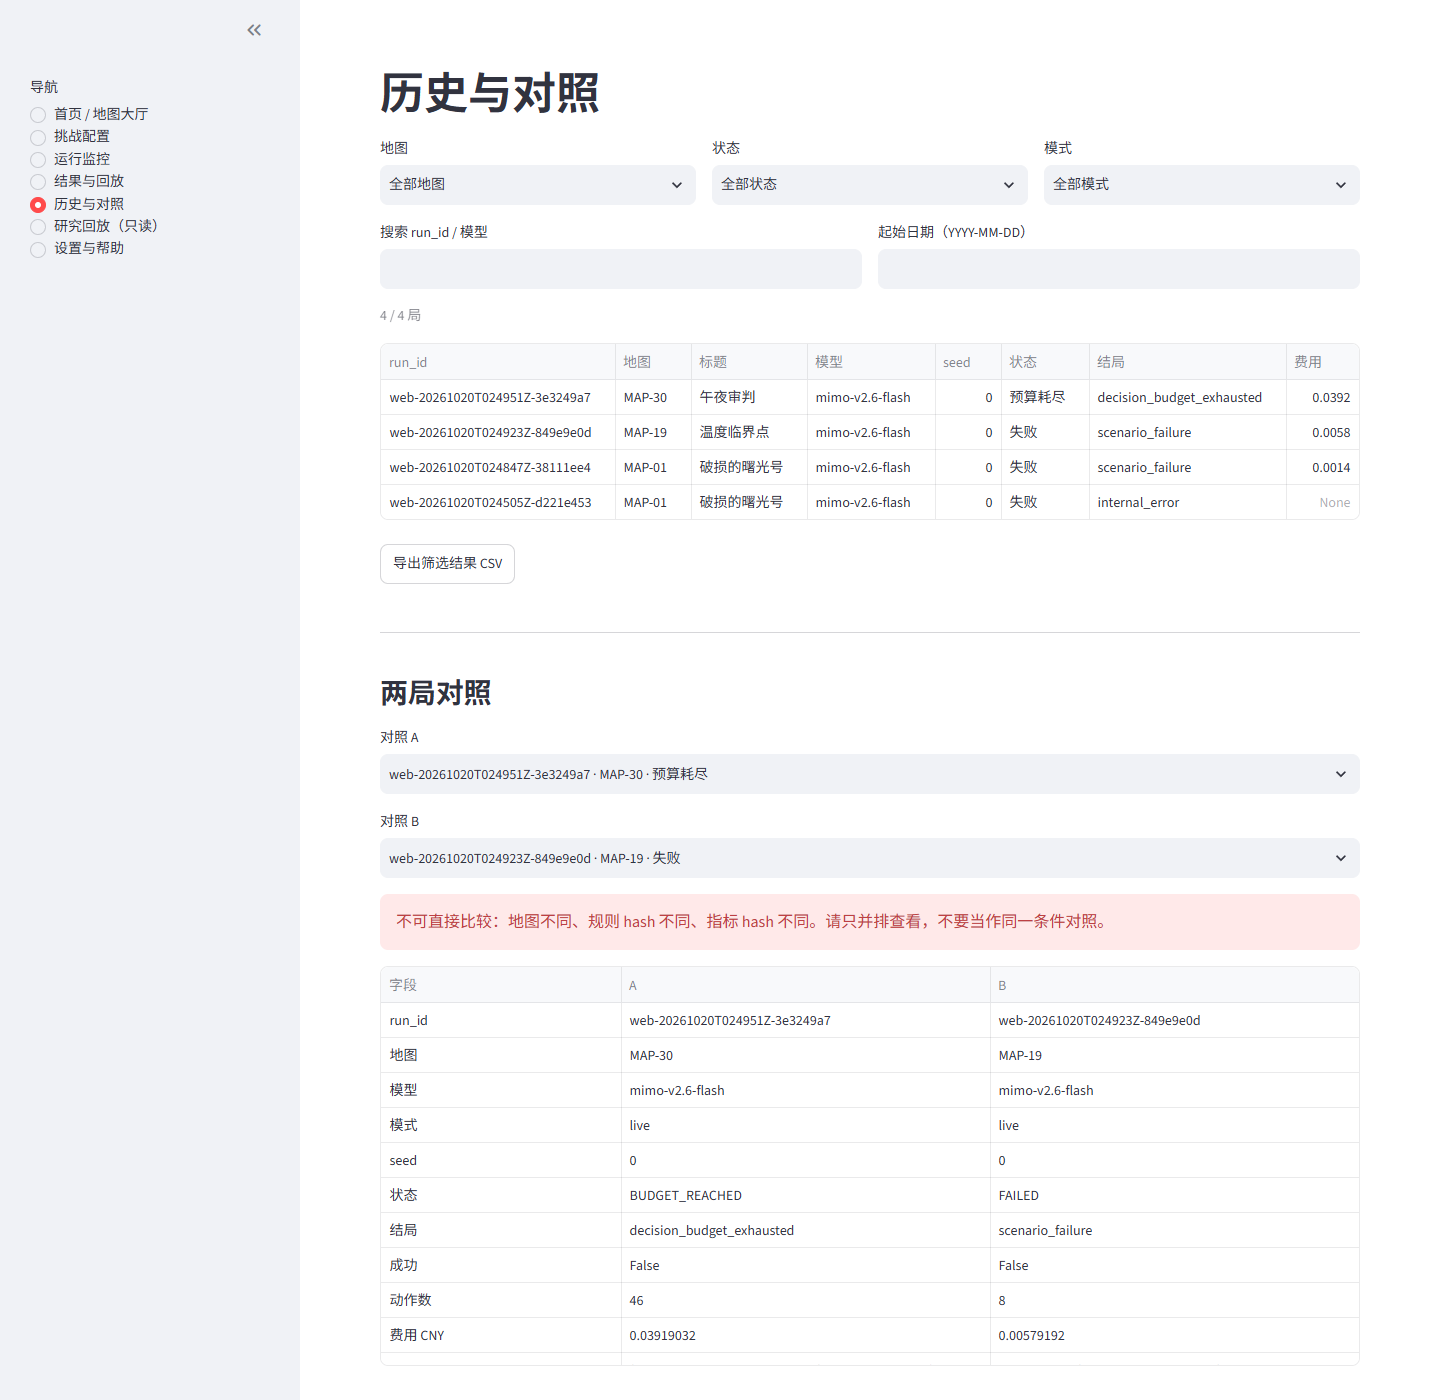
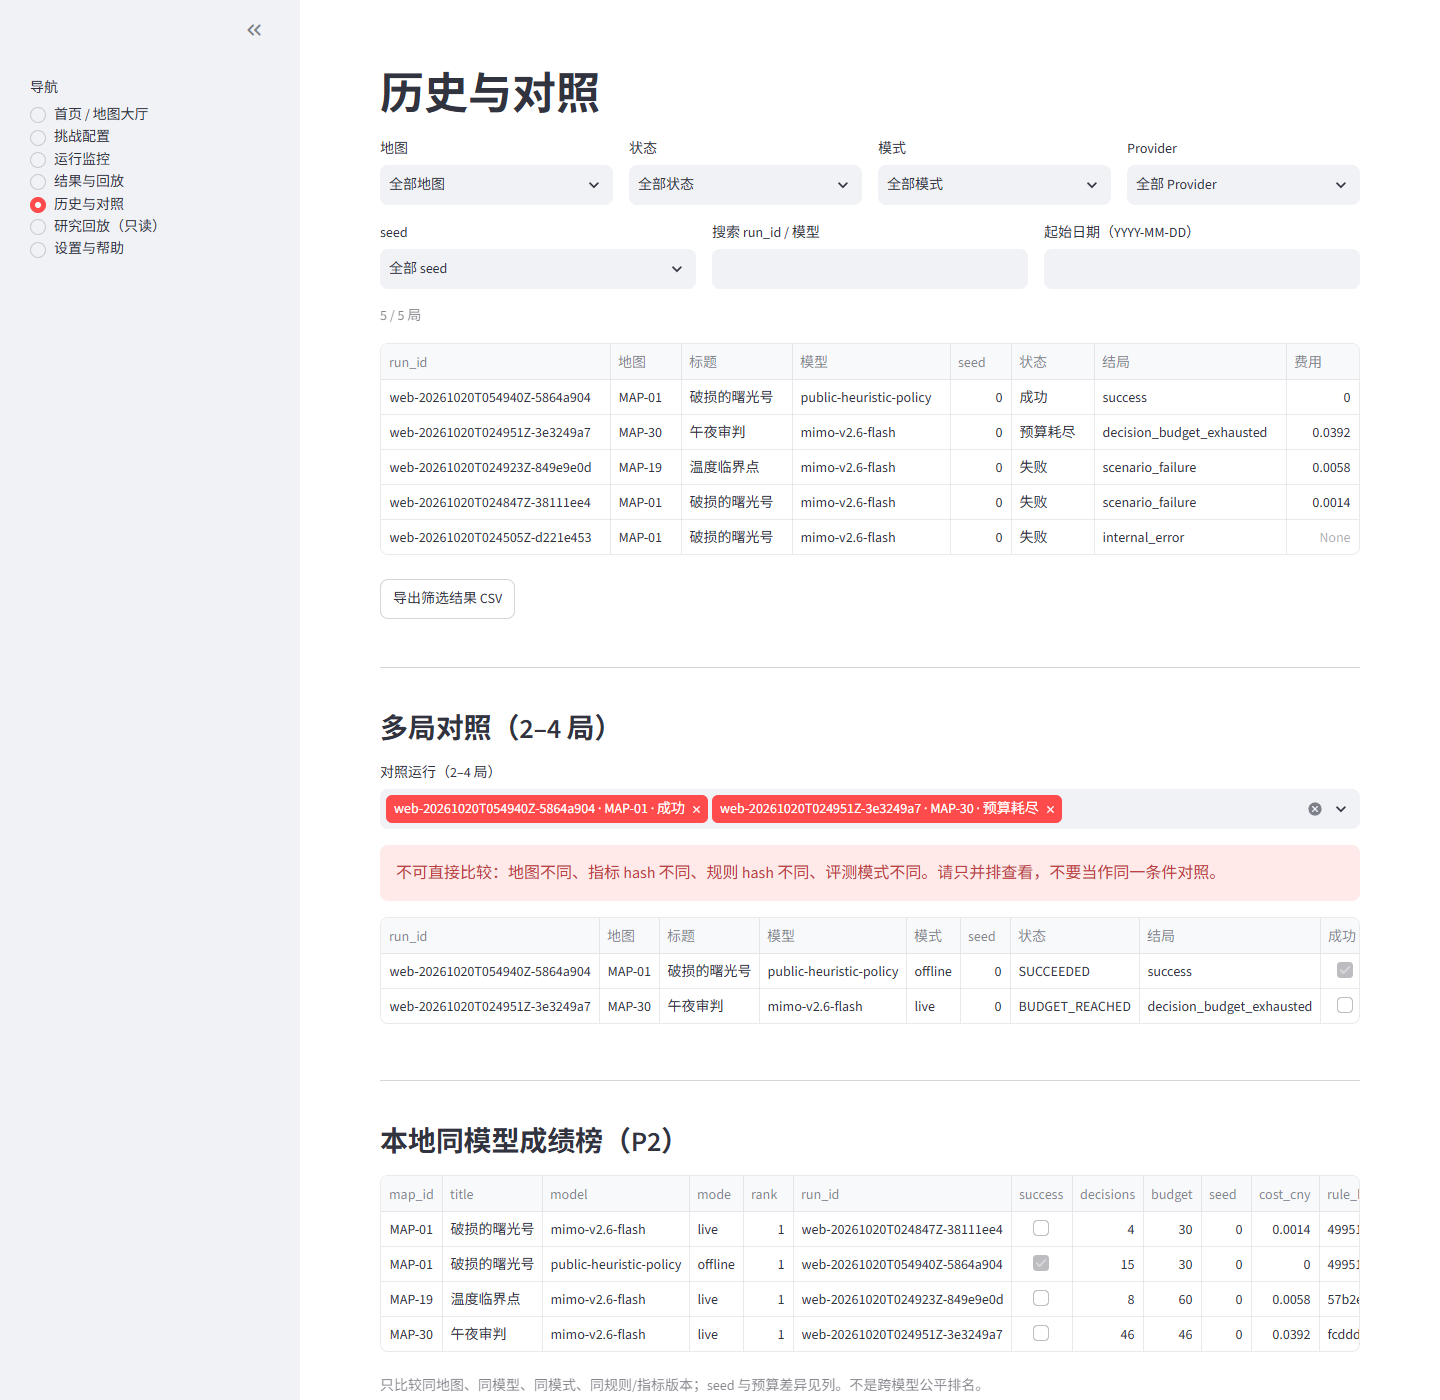
fix(v11): persist streamlit service singleton and deep-link navigation

diff --git a/src/agent_arena/ui/app.py b/src/agent_arena/ui/app.py
@@ -29,6 +29,8 @@ from agent_arena.ui.present import (
     summarize_trace,
     trace_overview,
 )
+from agent_arena.ui.runtime import get_service as _get_shared_service
+from agent_arena.ui.runtime import reset_service as _reset_shared_service
 from agent_arena.v10.baselines.suite import decision_budget
 from agent_arena.web import catalog as web_catalog
 from agent_arena.web.budget import BudgetLimits
@@ -105,8 +107,6 @@ VIEWS = [
 LEGACY_VIEWS = {"单局回放", "矩阵总览", "错误热点", "条件对照"}
 RESEARCH_VIEWS = ["单局回放", "矩阵总览", "错误热点", "条件对照"]
 
-_SERVICE: RunService | None = None
-
 
 def _load_streamlit() -> Any:
     try:
@@ -121,17 +121,11 @@ def _load_streamlit() -> Any:
 
 
 def get_service() -> RunService:
-    global _SERVICE
-    if _SERVICE is None:
-        _SERVICE = RunService(WEB_RUNS_DIR)
-    return _SERVICE
+    return _get_shared_service(WEB_RUNS_DIR)
 
 
 def reset_service() -> None:
-    global _SERVICE
-    if _SERVICE is not None:
-        _SERVICE.shutdown()
-    _SERVICE = None
+    _reset_shared_service()
 
 
 # --------------------------------------------------------------------- legacy
@@ -400,8 +394,15 @@ def _query_value(st: Any, key: str) -> str:
 
 
 def _apply_deep_link(st: Any) -> None:
-    """支持 ``?view=结果与回放&run=<run_id>`` 深链；不影响状态事实来源。"""
+    """支持 ``?view=结果与回放&run=<run_id>`` 深链；只在首次加载生效。
 
+    ``_nav`` 会在用户导航后写回 ``view`` 参数；如果每次 rerun 都重新应用，就会把
+    用户刚点的侧边栏选项覆盖掉。
+    """
+
+    state = getattr(st, "session_state", None)
+    if state is not None and state.get("_deep_link_applied"):
+        return
     view = _query_value(st, "view")
     run_id = _query_value(st, "run")
     map_id = _query_value(st, "map")
@@ -411,15 +412,15 @@ def _apply_deep_link(st: Any) -> None:
         st.session_state["active_run"] = run_id
     if map_id and any(item.map_id == map_id for item in web_catalog.cards()):
         st.session_state["selected_map"] = map_id
+    if state is not None:
+        state["_deep_link_applied"] = True
 
 
 def _nav(st: Any) -> str:
     try:
-        selected = str(st.sidebar.radio("导航", VIEWS, key="nav"))
+        return str(st.sidebar.radio("导航", VIEWS, key="nav"))
     except TypeError:  # 兼容旧测试的极简 stub
-        selected = str(st.sidebar.radio("导航", VIEWS))
-    _set_query_param(st, "view", selected)
-    return selected
+        return str(st.sidebar.radio("导航", VIEWS))
 
 
 def _world_options() -> dict[str, str]:
@@ -1123,7 +1124,7 @@ def _history_view(st: Any, service_getter: Any = get_service) -> None:
             "seed": row.environment_seed,
             "状态": state_label(row.state),
             "结局": row.outcome or "—",
-            "费用": row.cost_settled_cny,
+            "费用": "—" if row.cost_settled_cny is None else row.cost_settled_cny,
         }
         for row in filtered
     ]

diff --git a/scripts/capture_v11_screenshots.py b/scripts/capture_v11_screenshots.py
@@ -11,6 +11,7 @@
 from __future__ import annotations
 
 import argparse
+import os
 from pathlib import Path
 
 from playwright.sync_api import Page, sync_playwright
@@ -32,7 +33,7 @@ def _wait_text(page: Page, text: str, timeout: int = 20_000) -> None:
 
 
 def _click_nav(page: Page, label: str) -> None:
-    page.get_by_text(label, exact=True).first.click()
+    page.locator('[data-testid="stSidebar"] label').filter(has_text=label).first.click()
     page.wait_for_timeout(2_000)
 
 
@@ -43,10 +44,25 @@ def _shot(page: Page, name: str) -> str:
     return str(path.relative_to(ROOT))
 
 
+def _latest_run(runs_dir: Path) -> str:
+    candidates = sorted(
+        (path for path in runs_dir.glob("web-*") if (path / "result.json").is_file()),
+        key=lambda path: path.stat().st_mtime,
+        reverse=True,
+    )
+    return candidates[0].name if candidates else ""
+
+
 def main() -> int:
     parser = argparse.ArgumentParser()
     parser.add_argument("--url", default="http://127.0.0.1:8501")
+    parser.add_argument("--run-id", default="")
+    parser.add_argument("--runs-dir", type=Path, default=None)
     args = parser.parse_args()
+    runs_dir = args.runs_dir or Path(
+        os.environ.get("AGENT_ARENA_WEB_RUNS_DIR", str(ROOT / "runs" / "web"))
+    )
+    run_id = args.run_id or _latest_run(runs_dir)
     shots: list[str] = []
     with sync_playwright() as playwright:
         browser = playwright.chromium.launch(channel="chrome", headless=True)
@@ -61,11 +77,23 @@ def main() -> int:
         page.wait_for_timeout(4_000)
         shots.append(_shot(page, "02-config-rules.png"))
 
-        _click_nav(page, NAV["live"])
+        if run_id:
+            page.goto(
+                f"{args.url}/?view=%E8%BF%90%E8%A1%8C%E7%9B%91%E6%8E%A7&run={run_id}",
+                wait_until="networkidle",
+            )
+        else:
+            _click_nav(page, NAV["live"])
         _wait_text(page, "动作时间线")
         shots.append(_shot(page, "03-run-monitor.png"))
 
-        _click_nav(page, NAV["result"])
+        if run_id:
+            page.goto(
+                f"{args.url}/?view=%E7%BB%93%E6%9E%9C%E4%B8%8E%E5%9B%9E%E6%94%BE&run={run_id}",
+                wait_until="networkidle",
+            )
+        else:
+            _click_nav(page, NAV["result"])
         _wait_text(page, "逐步回放")
         shots.append(_shot(page, "04-result.png"))
 
@@ -82,6 +110,15 @@ def main() -> int:
         _wait_text(mobile, "地图大厅")
         mobile.wait_for_timeout(800)
         shots.append(_shot(mobile, "07-home-mobile.png"))
+
+        dark = browser.new_page(
+            viewport={"width": 1440, "height": 1200},
+            color_scheme="dark",
+        )
+        dark.goto(args.url, wait_until="networkidle")
+        _wait_text(dark, "地图大厅")
+        dark.wait_for_timeout(800)
+        shots.append(_shot(dark, "08-home-dark.png"))
         browser.close()
     for path in shots:
         print(path)

diff --git a/src/agent_arena/ui/runtime.py b/src/agent_arena/ui/runtime.py
@@ -1,0 +1,41 @@
+"""进程级 RunService 单例。
+
+Streamlit 每次 rerun 会重新执行入口脚本，``__main__`` 中的模块级变量会重置；
+把单例放在被 import 的普通模块里，才能跨 rerun/会话复用同一个服务与文件锁。
+"""
+
+from __future__ import annotations
+
+import threading
+from pathlib import Path
+
+from agent_arena.web.service import RunService
+
+_LOCK = threading.Lock()
+_SERVICE: RunService | None = None
+_BASE: Path | None = None
+
+
+def get_service(base: Path) -> RunService:
+    global _SERVICE, _BASE
+    resolved = base.resolve()
+    with _LOCK:
+        if _SERVICE is not None and _BASE == resolved:
+            return _SERVICE
+        if _SERVICE is not None:
+            _SERVICE.shutdown()
+        _SERVICE = RunService(resolved)
+        _BASE = resolved
+        return _SERVICE
+
+
+def reset_service() -> None:
+    global _SERVICE, _BASE
+    with _LOCK:
+        if _SERVICE is not None:
+            _SERVICE.shutdown()
+        _SERVICE = None
+        _BASE = None
+
+
+__all__ = ["get_service", "reset_service"]

diff --git a/scripts/verify_v11_map_pages.py b/scripts/verify_v11_map_pages.py
@@ -95,7 +95,9 @@ def main() -> int:
     failures: list[dict[str, str]] = []
     try:
         if args.start:
-            temporary = tempfile.TemporaryDirectory(prefix="agent-arena-map-pages-")
+            temporary = tempfile.TemporaryDirectory(
+                prefix="agent-arena-map-pages-", ignore_cleanup_errors=True
+            )
             runs_dir = Path(temporary.name) / "runs" / "web"
             process = _start_server(args.port, runs_dir)
             url = f"http://127.0.0.1:{args.port}"
@@ -115,6 +117,8 @@ def main() -> int:
                 process.wait(timeout=10)
             except subprocess.TimeoutExpired:
                 process.kill()
+                process.wait(timeout=10)
+            time.sleep(0.5)
         if temporary is not None:
             temporary.cleanup()
 

diff --git a/scripts/e2e_web.py b/scripts/e2e_web.py
@@ -129,7 +129,9 @@ def main() -> int:
     url = args.url
     try:
         if args.start:
-            temporary = tempfile.TemporaryDirectory(prefix="agent-arena-e2e-")
+            temporary = tempfile.TemporaryDirectory(
+                prefix="agent-arena-e2e-", ignore_cleanup_errors=True
+            )
             runs_dir = Path(temporary.name) / "runs" / "web"
             process = _start_server(args.port, runs_dir)
             url = f"http://127.0.0.1:{args.port}"
@@ -147,6 +149,8 @@ def main() -> int:
                 process.wait(timeout=10)
             except subprocess.TimeoutExpired:
                 process.kill()
+                process.wait(timeout=10)
+            time.sleep(0.5)
         if temporary is not None:
             temporary.cleanup()
 

diff --git a/tests/test_web_ui_smoke.py b/tests/test_web_ui_smoke.py
@@ -325,3 +325,14 @@ def test_pending_nav_is_applied_before_widget() -> None:
     ui_app._apply_pending_nav(stub)
     assert stub.session_state["nav"] == "挑战配置"
     assert "pending_nav" not in stub.session_state
+
+
+def test_deep_link_only_applies_on_first_load() -> None:
+    from agent_arena.ui import app as ui_app
+
+    stub = _Stub()
+    stub.session_state["nav"] = "挑战配置"
+    stub.session_state["_deep_link_applied"] = True
+    stub.query_params = {"view": "结果与回放"}
+    ui_app._apply_deep_link(stub)
+    assert stub.session_state["nav"] == "挑战配置"

diff --git a/docs/v11/progress.md b/docs/v11/progress.md
@@ -30,6 +30,10 @@
 - 新增 `scripts/e2e_web.py`：Playwright + 系统 Chrome 覆盖首页 → 离线运行 → 结果 → 下载 JSON → 深链历史，本地通过。
 - 新增 `scripts/verify_v11_map_pages.py`：30 图配置页浏览器映射 30/30。
 - 新增跨进程单实例锁；Streamlit 锁定到 `uv.lock` 的 `web` extra。
+- 修复 Streamlit 每次 rerun 重置 `__main__` 全局导致新建服务撞锁；单例移到 `ui/runtime.py`。
+- 修复深链每次 rerun 覆盖侧边栏导航；深链只在首次加载应用。
+- E2E 与 30 图映射脚本使用 `ignore_cleanup_errors`，避免 Windows 锁文件阻塞临时目录清理。
+- 新增深色模式截图（`08-home-dark.png`），截图总数 8 张。
 - 新增公开动作级失败归因与 `trace.jsonl`；历史补 Provider/Seed 筛选、2–4 局对照、成绩榜预算列。
 - Windows 干净克隆安装 176.9s（首次）/96.5s（复跑），无 `.env`，自检 7/7；Ubuntu CI `d51f472` success。
 - 演示数据包、启动/桌面快捷方式模板、版本 `0.2.0`。
@@ -44,6 +48,7 @@
 - `65806ef`：跨进程锁、失败归因、筛选/多局对照、Streamlit extra 锁定；
 - `e4fb40c`：shell 启动脚本可执行位；
 - `d51f472`：文件锁 mypy 跨平台修正；
-- 最终报告、验收数据与进度回填：本提交（见 `git log -1`）。
+- `33732ab`：硬化文档、干净安装/Ubuntu CI 证据、演示包与 0.2.0；
+- 本提交：Streamlit 单例/深链导航修复、深色截图、E2E 清理（见 `git log -1`）。
 
 最终 HEAD 与完整历史以 `git log` 为准。

diff --git a/docs/v11/backlog.md b/docs/v11/backlog.md
@@ -7,7 +7,7 @@
 | P2-1 公开状态可视化 | **DONE（基础版）** | 结果页可选公开 Observation 数值字段画折线；数据只来自 agent-visible 事件 | 增加地图主题卡片、资源条、进度图 |
 | P2-2 本地同模型成绩榜 | **DONE** | 同地图/模型/模式/规则指标版本内排序；显示 seed、费用与决策预算 | 按 seed 分组/个人最好成绩分层 |
 | P2-3 快捷启动脚本 | **DONE** | `launch_web.ps1`、`launch_web.sh`、`launch_web.command`、Windows 桌面快捷方式脚本、Linux `.desktop` 模板 | 跨平台安装器 |
-| P2-3 演示截图 | **DONE** | `docs/v11/screenshots/` 七张（含移动端） | 深色模式对照 |
+| P2-3 演示截图 | **DONE** | `docs/v11/screenshots/` 八张（含移动端） | 深色模式对照 |
 | P2-3 演示数据包 | **DONE** | `docs/v11/demo/` + `scripts/install_v11_demo.py`，一键安装 MAP-01 离线 15 步记录 | 扩展到 3 局样本 |
 | P2-3 桌面快捷方式 | **DONE（模板）** | Windows 脚本可直接创建；macOS `.command`；Linux `.desktop` 模板需改路径 | 各平台安装器 |
 

diff --git a/docs/v11/test-report.md b/docs/v11/test-report.md
@@ -117,6 +117,9 @@ uv run --with playwright --with streamlit python scripts/verify_v11_map_pages.py
 11. **失败归因与原始 trace**：新增公开动作级 `attribution.py`（复用 V10 `MECHANISM_TOOLS`），导出新增 `trace.jsonl`。
 12. **历史筛选/对照**：补 Provider/Seed 筛选、2–4 局对照、成绩榜决策预算列。
 13. **CLI 测试平台差异**：`--help` 文本断言改为 `--check` 行为测试，修复 Ubuntu CI 唯一失败。
+14. **Streamlit 单例重置**：入口脚本每次 rerun 重置 `__main__` 全局，导致每次新建 `RunService` 并撞文件锁；把单例移到 `ui/runtime.py`，跨 rerun/会话复用。
+15. **深链覆盖导航**：`_nav` 每次 rerun 写回 `view` 参数，`_apply_deep_link` 又每次读回，导致侧边栏点击被覆盖；改为深链只在首次加载应用（`_deep_link_applied`）。
+16. **E2E 临时目录清理**：Windows 下服务进程未完全退出时 `.service.lock` 仍被占用；改为 `ignore_cleanup_errors=True` 并等待进程退出。
 
 ## 7. OS 覆盖
 

diff --git a/docs/v11/final-report.md b/docs/v11/final-report.md
@@ -17,7 +17,8 @@
 | `65806ef` | 跨进程锁、失败归因、筛选/多局对照、Streamlit extra 锁定 |
 | `e4fb40c` | shell 启动脚本可执行位 |
 | `d51f472` | 文件锁 mypy 跨平台修正 |
-| 本提交 | 最终报告、验收数据与进度回填 |
+| `33732ab` | 硬化文档：干净安装、Ubuntu CI、演示包与 0.2.0 |
+| 本提交 | Streamlit 单例/深链导航修复、深色截图、E2E 清理 |
 
 **推荐启动命令**：
 
@@ -121,7 +122,7 @@ uv run agent-arena web
 | 公开状态走势图 | DONE（基础版） |
 | 本地同模型成绩榜 | DONE（含决策预算列） |
 | 快捷启动脚本 | DONE（PowerShell/sh/command/桌面快捷方式/模板） |
-| 截图 | DONE（`docs/v11/screenshots/` 7 张） |
+| 截图 | DONE（`docs/v11/screenshots/` 8 张） |
 | 演示数据包 | DONE（`docs/v11/demo/` + 安装脚本） |
 | 桌面快捷方式 | DONE（模板；Linux 需改路径） |
 

diff --git a/docs/v11/safety-and-budget.md b/docs/v11/safety-and-budget.md
@@ -63,7 +63,12 @@
 - 已发出的请求不会被强制中断，UI 明示“当前请求或步骤结束后生效”；
 - 取消后仍写 partial result，状态 `CANCELLED`。
 
-### 2.5 恢复与损坏容错
+### 2.5 单实例与进程内单例
+
+- `web/lock.py` 的 `SingleInstanceLock` 在 `runs/web/.service.lock` 上加进程锁：Windows 用 `msvcrt.locking`，POSIX 用 `fcntl.flock`；第二个服务进程会被明确拒绝并提示 PID。
+- Streamlit 每次 rerun 会重新执行入口脚本，`__main__` 的模块级变量会重置；因此 `RunService` 单例放在被 import 的 `ui/runtime.py`，避免每次 rerun 新建服务并撞锁。
+
+### 2.6 恢复与损坏容错
 
 - 每次状态转换原子写 manifest（临时文件 + `os.replace`，Windows 对 `PermissionError` 有限重试）；
 - 动作事件 append-only JSONL（`flush` + `fsync`）；
